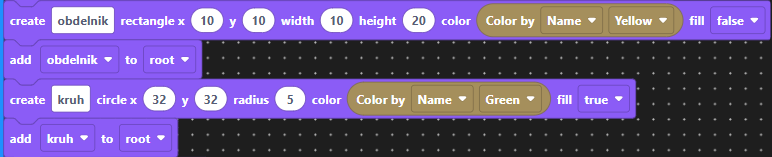
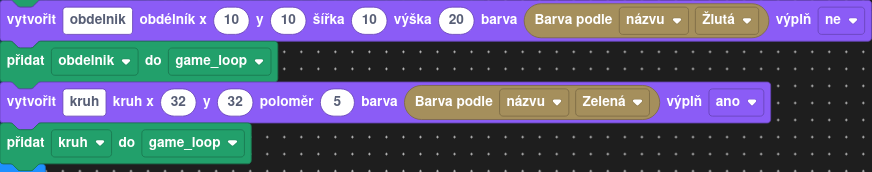
fix: Theoretical part block pictures

diff --git a/docs/lekce/lekce5/index.md b/docs/lekce/lekce5/index.md
@@ -63,23 +63,26 @@ Vyzkoušíme si ještě rotace. Před prováděním rotací je dobré nastavit s
     obdelnik.rotate(45)
     ```
 Celý dosavadní kód by měl vypadat nějak takto:
-```ts
-import { createSaturn, SaturnPins } from "saturn";
-import { GameLoop } from "game-loop"
-import * as colors from "colors";
-import { Circle, Rectangle} from "shapes";
+=== "Bločky"
+    ![](./assets/summary.png)
+=== "TypeScript
+    ```ts
+    import { createSaturn, SaturnPins } from "saturn";
+    import { GameLoop } from "game-loop"
+    import * as colors from "colors";
+    import { Circle, Rectangle} from "shapes";
 
-const saturn = createSaturn()
-const game_loop = new GameLoop(saturn.display)
+    const saturn = createSaturn()
+    const game_loop = new GameLoop(saturn.display)
 
-const obdelnik = new Rectangle({x: 10, y: 10, width: 10, height:20, color: colors.yellow})
-game_loop.addShape(obdelnik)
-const kruh = new Circle({x: 32, y: 32, radius: 5, color: colors.green, fill: true})
-game_loop.addShape(kruh)
+    const obdelnik = new Rectangle({x: 10, y: 10, width: 10, height:20, color: colors.yellow})
+    game_loop.addShape(obdelnik)
+    const kruh = new Circle({x: 32, y: 32, radius: 5, color: colors.green, fill: true})
+    game_loop.addShape(kruh)
 
-obdelnik.setPivot(0, 0)
-obdelnik.rotate(45)
-```
+    obdelnik.setPivot(0, 0)
+    obdelnik.rotate(45)
+    ```
 !!! note "Všiměte si, že nastavení pivotu na souřadnice 0, 0 vede k rotaci okolo rohu čtverce, ne okolo pixelu se souřadnicemi 0, 0. Jak bychom to museli udělat, kdybychom chtěli více tvarů otáčet kolem jednoho středu?"
 
 Abyste nemuseli vlastnoručně psát kód pro každý tvar. Připravili jsme vám Návrhář.